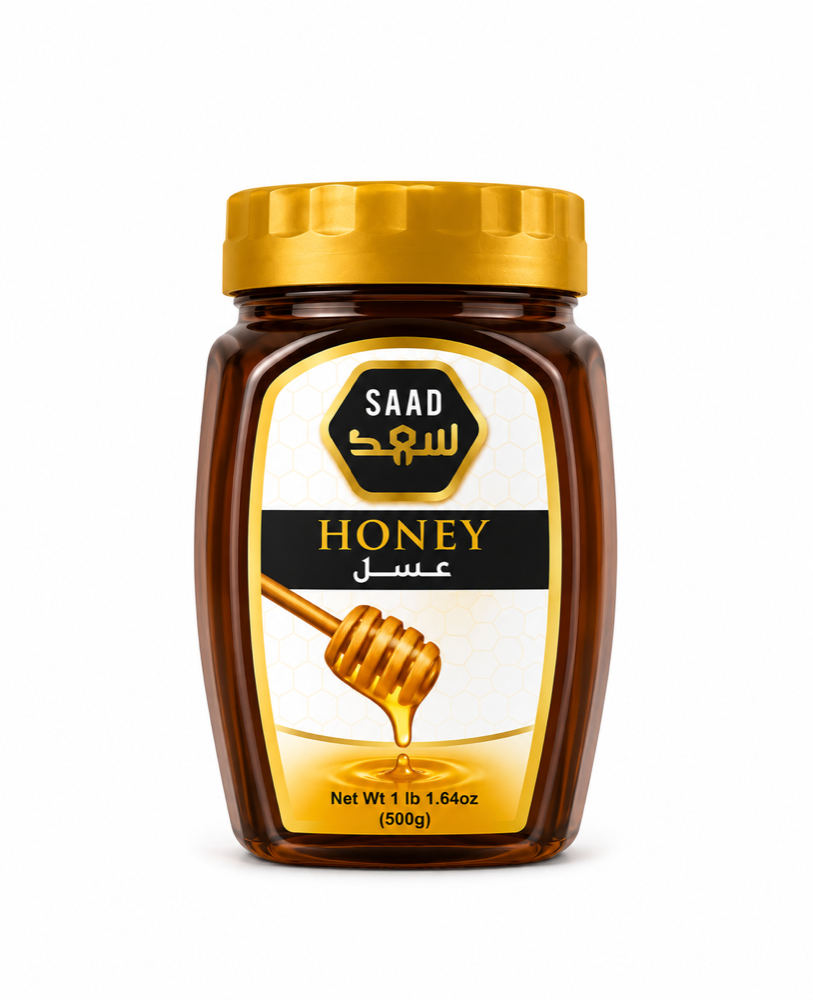
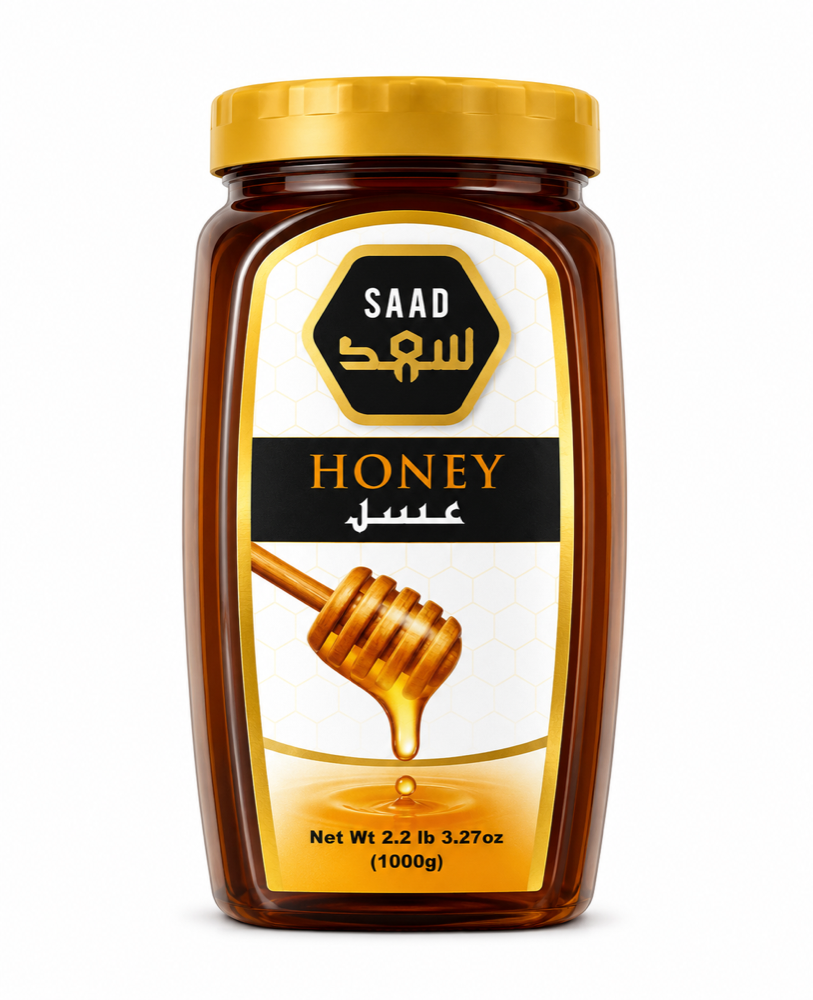
Add categories & products; fix salts/honey/fried-onion
- New categories: Sweets and Confectionery (4), Edible Gums and Resins (2)
- Rename "Himalayan Pink Salt" category to "Salts"; replace its products
  with 4 real salts (pink 750g, fine pink jar, rock, black fine)
- Bulk Dry Fruits/Nuts: add Dry Dates and Dry Fig (200g/400g each)
- Fried Onion: replace image + correct weight (14oz/400gm)
- Honey: correct weights, new packaging images
- Snacks: add Chakwali Rewri and Sweet Makhana
- Utensils & Kitchenware: add 9 real products (tandoor, mortar, charpai, etc.)
- Vermicelli: add Pheny Fried Vermicelli
- Update homepage Salt link; remove old salt/fried-onion images

diff --git a/lib/data.js b/lib/data.js
@@ -13,7 +13,9 @@ export const categories = [
   { id: 'pickle-achar', title: 'Pickle/Achar', slug: 'pickle-achar', accent: '#7F1D1D', description: 'Pickles and achar' },
   { id: 'sauces', title: 'Sauces', slug: 'sauces', accent: '#D97706', description: 'Sauces and condiments' },
   { id: 'fried-onion', title: 'Fried Onion', slug: 'fried-onion', accent: '#C7842B', description: 'Crispy fried onion flakes' },
-  { id: 'himalayan-pink-salt', title: 'Himalayan Pink Salt', slug: 'himalayan-pink-salt', accent: '#E8A0A0', description: 'Pure Himalayan pink salt' },
+  { id: 'salts', title: 'Salts', slug: 'salts', accent: '#E8A0A0', description: 'Himalayan pink salt, rock salt and fine salts' },
+  { id: 'sweets-and-confectionery', title: 'Sweets and Confectionery', slug: 'sweets-and-confectionery', accent: '#D4568B', description: 'Traditional sweets and confectionery' },
+  { id: 'edible-gums-and-resins', title: 'Edible Gums and Resins', slug: 'edible-gums-and-resins', accent: '#B98A3C', description: 'Natural edible gums and resins' },
 ]
 
 export const products = [
@@ -68,6 +70,50 @@ export const products = [
     category: 'bulk-dry-fruits-nuts',
     image: '/products/bulk-dry-fruits-nuts/dry-plum.jpg',
     description: 'Tangy dried plums, ideal for cooking and everyday snacking.',
+    weight: '7oz / 200gm',
+    origin: 'Pakistan',
+    featured: false,
+  },
+  {
+    id: 'dry-dates-400g',
+    title: 'Dry Dates (Chuara)',
+    slug: 'dry-dates-400g',
+    category: 'bulk-dry-fruits-nuts',
+    image: '/products/bulk-dry-fruits-nuts/dry-dates-400g.png',
+    description: 'Naturally dried dates (chuara), a wholesome energy-rich snack.',
+    weight: '14oz / 400gm',
+    origin: 'Pakistan',
+    featured: true,
+  },
+  {
+    id: 'dry-dates-200g',
+    title: 'Dry Dates (Chuara)',
+    slug: 'dry-dates-200g',
+    category: 'bulk-dry-fruits-nuts',
+    image: '/products/bulk-dry-fruits-nuts/dry-dates-200g.png',
+    description: 'Naturally dried dates (chuara) in a smaller pack.',
+    weight: '7oz / 200gm',
+    origin: 'Pakistan',
+    featured: false,
+  },
+  {
+    id: 'dry-fig-400g',
+    title: 'Dry Fig (Anjeer)',
+    slug: 'dry-fig-400g',
+    category: 'bulk-dry-fruits-nuts',
+    image: '/products/bulk-dry-fruits-nuts/dry-fig-400g.png',
+    description: 'Premium dried figs (anjeer), naturally sweet and nutritious.',
+    weight: '14oz / 400gm',
+    origin: 'Pakistan',
+    featured: true,
+  },
+  {
+    id: 'dry-fig-200g',
+    title: 'Dry Fig (Anjeer)',
+    slug: 'dry-fig-200g',
+    category: 'bulk-dry-fruits-nuts',
+    image: '/products/bulk-dry-fruits-nuts/dry-fig-200g.png',
+    description: 'Premium dried figs (anjeer) in a smaller pack.',
     weight: '7oz / 200gm',
     origin: 'Pakistan',
     featured: false,
@@ -172,6 +218,17 @@ export const products = [
     featured: false,
   },
   {
+    id: 'pheny-fried-vermicelli',
+    title: 'Pheny Fried Vermicelli',
+    slug: 'pheny-fried-vermicelli',
+    category: 'vermicellis',
+    image: '/products/vermicellis/pheny-fried-vermicelli.png',
+    description: 'Roasted pheny fried vermicelli, ready for quick desserts.',
+    weight: '180g / 6.35 oz',
+    origin: 'Pakistan',
+    featured: true,
+  },
+  {
     id: 'green-tea-110g',
     title: 'Green Tea (110g)',
     slug: 'green-tea-110g',
@@ -222,7 +279,7 @@ export const products = [
     category: 'honey',
     image: '/products/honey/honey-500g.png',
     description: 'Pure natural honey packed for retail and export.',
-    weight: '500g',
+    weight: '1 lb 1.64 oz / 500g',
     origin: 'Pakistan',
     featured: true,
   },
@@ -232,8 +289,8 @@ export const products = [
     slug: 'honey-1kg',
     category: 'honey',
     image: '/products/honey/honey-1kg.png',
-    description: 'Pure natural honey in a family-size 1kg jar.',
-    weight: '1kg',
+    description: 'Pure natural honey in a family-size jar.',
+    weight: '2.2 lb 3.27 oz / 1kg',
     origin: 'Pakistan',
     featured: false,
   },
@@ -275,9 +332,97 @@ export const products = [
     title: 'Kitchenware Set',
     slug: 'kitchenware-set',
     category: 'utensils-kitchenware',
-    image: null,
-    description: 'Useful kitchenware items for daily household needs.',
+    image: '/products/utensils-kitchenware/kitchenware-set.png',
+    description: 'Handy kitchenware set for daily household needs.',
     weight: 'Assorted',
+    origin: 'Pakistan',
+    featured: true,
+  },
+  {
+    id: 'mortar-and-pestle',
+    title: 'Mortar and Pestle',
+    slug: 'mortar-and-pestle',
+    category: 'utensils-kitchenware',
+    image: '/products/utensils-kitchenware/mortar-and-pestle.jpg',
+    description: 'Traditional stone mortar and pestle for grinding spices.',
+    weight: '—',
+    origin: 'Pakistan',
+    featured: true,
+  },
+  {
+    id: 'rolling-pin-board',
+    title: 'Rolling Pin and Board',
+    slug: 'rolling-pin-board',
+    category: 'utensils-kitchenware',
+    image: '/products/utensils-kitchenware/rolling-pin-board.jpg',
+    description: 'Wooden rolling pin and board (chakla belan) for making rotis.',
+    weight: '—',
+    origin: 'Pakistan',
+    featured: false,
+  },
+  {
+    id: 'gas-tandoor',
+    title: 'Stainless Steel Gas Tandoor',
+    slug: 'gas-tandoor',
+    category: 'utensils-kitchenware',
+    image: '/products/utensils-kitchenware/gas-tandoor.png',
+    description: 'Stainless steel gas tandoor for baking rotis and naan at home.',
+    weight: '—',
+    origin: 'Pakistan',
+    featured: true,
+  },
+  {
+    id: 'broom',
+    title: 'Broom (Jharoo)',
+    slug: 'broom',
+    category: 'utensils-kitchenware',
+    image: '/products/utensils-kitchenware/broom.jpg',
+    description: 'Durable household broom for everyday cleaning.',
+    weight: '—',
+    origin: 'Pakistan',
+    featured: false,
+  },
+  {
+    id: 'washroom-lota',
+    title: 'Washroom Vessel (Lota)',
+    slug: 'washroom-lota',
+    category: 'utensils-kitchenware',
+    image: '/products/utensils-kitchenware/washroom-lota.jpg',
+    description: 'Traditional washroom lota for household use.',
+    weight: '—',
+    origin: 'Pakistan',
+    featured: false,
+  },
+  {
+    id: 'charpai',
+    title: 'Woven Rope Bed (Charpai)',
+    slug: 'charpai',
+    category: 'utensils-kitchenware',
+    image: '/products/utensils-kitchenware/charpai.jpg',
+    description: 'Traditional hand-woven rope bed (charpai).',
+    weight: '—',
+    origin: 'Pakistan',
+    featured: false,
+  },
+  {
+    id: 'carrom-board',
+    title: 'Carrom Board',
+    slug: 'carrom-board',
+    category: 'utensils-kitchenware',
+    image: '/products/utensils-kitchenware/carrom-board.jpg',
+    description: 'Classic carrom board for family game time.',
+    weight: '—',
+    origin: 'Pakistan',
+    featured: false,
+  },
+  {
+    id: 'ludo',
+    title: 'Ludo Board',
+    slug: 'ludo',
+    category: 'utensils-kitchenware',
+    image: '/products/utensils-kitchenware/ludo.jpg',
+    description: 'Traditional ludo board game for all ages.',
+    weight: '—',
     origin: 'Pakistan',
     featured: false,
   },
@@ -319,31 +464,53 @@ export const products = [
     title: 'Fried Onion',
     slug: 'fried-onion',
     category: 'fried-onion',
-    image: '/products/fried-onion/fried-onion.jpg',
+    image: '/products/fried-onion/fried-onion.png',
     description: 'Crispy golden fried onion flakes for biryani, salads and garnishing.',
-    weight: '400gm',
+    weight: '14oz / 400gm',
     origin: 'Pakistan',
     featured: true,
   },
   {
-    id: 'pink-salt',
+    id: 'himalayan-pink-salt',
     title: 'Himalayan Pink Salt',
-    slug: 'pink-salt',
-    category: 'himalayan-pink-salt',
-    image: '/products/himalayan-pink-salt/pink-salt.jpg',
+    slug: 'himalayan-pink-salt',
+    category: 'salts',
+    image: '/products/salts/himalayan-pink-salt.png',
     description: 'Pure Himalayan pink salt, rich in natural minerals.',
-    weight: 'Retail Pack',
+    weight: '26.45 oz / 750gm',
     origin: 'Pakistan',
     featured: true,
   },
   {
-    id: 'pink-salt-rock-jar',
-    title: 'Himalayan Pink Salt Rock (Jar)',
-    slug: 'pink-salt-rock-jar',
-    category: 'himalayan-pink-salt',
-    image: '/products/himalayan-pink-salt/pink-salt-rock-jar.jpg',
-    description: 'Coarse Himalayan pink salt rock crystals in a resealable jar.',
-    weight: 'Jar',
+    id: 'himalayan-fine-pink-salt',
+    title: 'Himalayan Fine Pink Salt (Jar)',
+    slug: 'himalayan-fine-pink-salt',
+    category: 'salts',
+    image: '/products/salts/himalayan-fine-pink-salt.jpg',
+    description: 'Finely ground Himalayan pink salt in a convenient jar.',
+    weight: '13.05 oz / 370gm',
+    origin: 'Pakistan',
+    featured: true,
+  },
+  {
+    id: 'himalayan-rock-pink-salt',
+    title: 'Himalayan Rock Pink Salt',
+    slug: 'himalayan-rock-pink-salt',
+    category: 'salts',
+    image: '/products/salts/himalayan-rock-pink-salt.jpg',
+    description: 'Coarse Himalayan pink salt rock crystals.',
+    weight: '13.05 oz / 370gm',
+    origin: 'Pakistan',
+    featured: false,
+  },
+  {
+    id: 'black-fine-salt',
+    title: 'Black Fine Salt (Kala Namak)',
+    slug: 'black-fine-salt',
+    category: 'salts',
+    image: '/products/salts/black-fine-salt.png',
+    description: 'Finely ground black salt (kala namak) with a distinctive flavour.',
+    weight: '14 oz / 400gm',
     origin: 'Pakistan',
     featured: false,
   },
@@ -500,6 +667,94 @@ export const products = [
     weight: '14oz / 400gm',
     origin: 'Pakistan',
     featured: false,
+  },
+  {
+    id: 'chakwali-rewri',
+    title: 'Chakwali Rewri',
+    slug: 'chakwali-rewri',
+    category: 'snacks',
+    image: '/products/snacks/chakwali-rewri.jpg',
+    description: 'Traditional Chakwal-style rewri — crunchy sesame and jaggery treat.',
+    weight: '14oz / 400gm',
+    origin: 'Pakistan',
+    featured: true,
+  },
+  {
+    id: 'sweet-makhana',
+    title: 'Sweet Makhana',
+    slug: 'sweet-makhana',
+    category: 'snacks',
+    image: '/products/snacks/sweet-makhana.jpg',
+    description: 'Light, sweet fox nuts (makhana) — a wholesome crunchy snack.',
+    weight: '10.58 oz / 300gm',
+    origin: 'Pakistan',
+    featured: true,
+  },
+  {
+    id: 'chum-chum',
+    title: 'Chum Chum (Canned)',
+    slug: 'chum-chum',
+    category: 'sweets-and-confectionery',
+    image: '/products/sweets-and-confectionery/chum-chum.png',
+    description: 'Traditional cham cham sweet in ready-to-serve canned syrup.',
+    weight: '1kg / 32.27oz',
+    origin: 'Pakistan',
+    featured: true,
+  },
+  {
+    id: 'gulab-jamun',
+    title: 'Gulab Jamun (Canned)',
+    slug: 'gulab-jamun',
+    category: 'sweets-and-confectionery',
+    image: '/products/sweets-and-confectionery/gulab-jamun.png',
+    description: 'Soft gulab jamun in rich sugar syrup, ready to serve.',
+    weight: '1kg / 32.27oz',
+    origin: 'Pakistan',
+    featured: true,
+  },
+  {
+    id: 'rasgulla',
+    title: 'Rasgulla (Canned)',
+    slug: 'rasgulla',
+    category: 'sweets-and-confectionery',
+    image: '/products/sweets-and-confectionery/rasgulla.png',
+    description: 'Spongy rasgulla in light syrup, canned for long shelf life.',
+    weight: '1kg / 32.27oz',
+    origin: 'Pakistan',
+    featured: true,
+  },
+  {
+    id: 'murabba-ashrafi',
+    title: 'Murabba Ashrafi',
+    slug: 'murabba-ashrafi',
+    category: 'sweets-and-confectionery',
+    image: '/products/sweets-and-confectionery/murabba-ashrafi.jpg',
+    description: 'Traditional preserved fruit murabba with a rich, sweet flavour.',
+    weight: '14.11oz / 400gm',
+    origin: 'Pakistan',
+    featured: false,
+  },
+  {
+    id: 'char-gond',
+    title: 'Char Gond',
+    slug: 'char-gond',
+    category: 'edible-gums-and-resins',
+    image: '/products/edible-gums-and-resins/char-gond.png',
+    description: 'Natural edible gum (char gond) used in traditional recipes.',
+    weight: '3.5 oz / 100gm',
+    origin: 'Pakistan',
+    featured: true,
+  },
+  {
+    id: 'gond-katira',
+    title: 'Gond Katira',
+    slug: 'gond-katira',
+    category: 'edible-gums-and-resins',
+    image: '/products/edible-gums-and-resins/gond-katira.png',
+    description: 'Natural gond katira (tragacanth) — a cooling edible resin.',
+    weight: '3.5 oz / 100gm',
+    origin: 'Pakistan',
+    featured: true,
   },
 ]
 

diff --git a/app/page.js b/app/page.js
@@ -19,7 +19,7 @@ const IMG = {
 
 const specialProducts = [
   { title: 'Juices',              href: '/products/drinks-and-juices',          image: IMG.fruits },
-  { title: 'Himalayan Pink Salt', href: '/products/himalayan-pink-salt',       image: IMG.spices },
+  { title: 'Himalayan Pink Salt', href: '/products/salts',                     image: IMG.spices },
   { title: 'Dry Fruits',          href: '/products/bulk-dry-fruits-nuts',      image: IMG.nuts },
   { title: 'Saag',                href: '/products/exclusive-products-saag-halwa', image: IMG.mangoes },
   { title: 'Fried Onion',         href: '/products/fried-onion',               image: IMG.honey },
